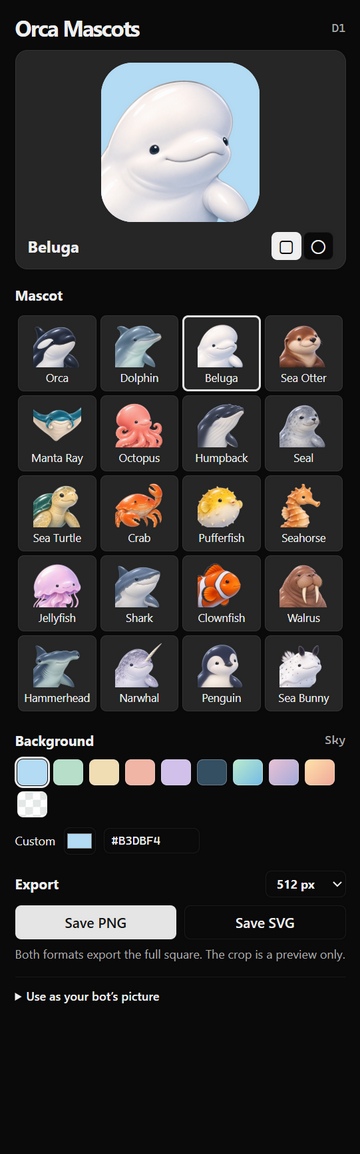
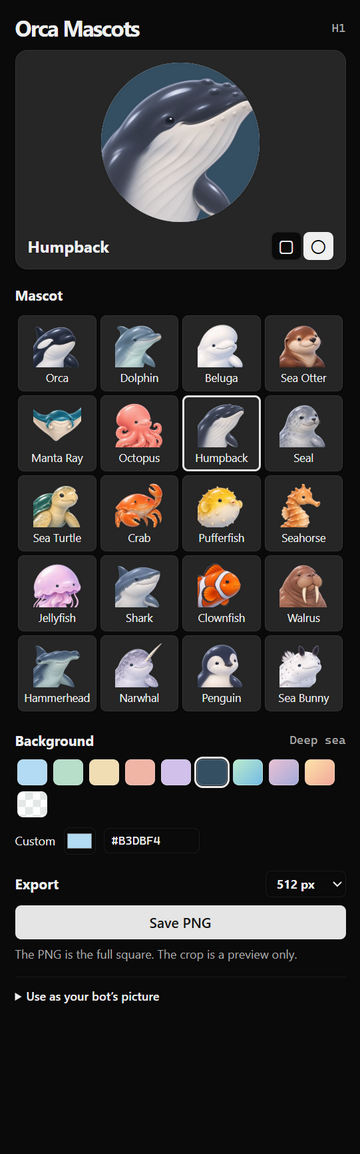
refactor: drop SVG export, keep PNG only

diff --git a/panel/index.html b/panel/index.html
@@ -31,8 +31,8 @@
     </section>
     <section>
       <h2>Export <select id="size" aria-label="Export size"><option value="512">512 px</option><option value="1024">1024 px</option></select></h2>
-      <div class="actions"><button id="png" disabled>Save PNG</button><button id="svg" disabled>Save SVG</button></div>
-      <p class="hint">Both formats export the full square. The crop is a preview only.</p>
+      <div class="actions"><button id="png" disabled>Save PNG</button></div>
+      <p class="hint">The PNG is the full square. The crop is a preview only.</p>
     </section>
     <p id="status" role="status"></p>
     <details><summary>Use as your bot’s picture</summary>

diff --git a/README.md b/README.md
@@ -1,6 +1,6 @@
 # Orca Mascots
 
-Design a marine avatar in the Orca Desktop sidebar. Choose from 20 illustrated animals, customise the background, and save a square PNG or self-contained SVG. Orca Mascots is an unofficial community plugin, unaffiliated with the Orca authors.
+Design a marine avatar in the Orca Desktop sidebar. Choose from 20 illustrated animals, customise the background, and save a square PNG. Orca Mascots is an unofficial community plugin, unaffiliated with the Orca authors.
 
 ![Orca Mascots sidebar in Orca Desktop](docs/gallery.png)
 
@@ -18,14 +18,14 @@ Orca shows the repository, publisher, and requested access before installing. Ex
 
 1. Select an animal in the gallery. Keyboard users can Tab through the buttons and press Enter or Space to select.
 2. Choose a solid, gradient or transparent swatch. For a custom solid, use the colour picker or enter a three- or six-digit hex value. Sky blue (`#B3DBF4`) matches the default background of the built-in mascots.
-3. Switch between rounded and circular previews. The checkerboard shows transparency. Both exports keep the entire square, including the corners.
-4. Choose **512 px** or **1024 px**, then **Save PNG** or **Save SVG**. Choose a destination in Orca’s save dialog. In the SVG the background remains editable, and the raster foreground is embedded so the file travels on its own.
+3. Switch between rounded and circular previews. The checkerboard shows transparency. The export keeps the entire square, including the corners.
+4. Choose **512 px** or **1024 px**, then **Save PNG** and choose a destination in Orca’s save dialog.
 
 The panel remembers your animal, background, last custom colour, preview shape and export size in its local plugin storage. All artwork is bundled and the panel runs offline.
 
 ### Use as your bot’s picture
 
-Save the 512 px PNG, open the bot’s settings and upload it in the picture picker. Orca’s plugin API cannot apply bot avatars or register native mascot IDs. Direct application would require an upstream host method to select a bot and submit an approved picture upload. The SVG is for other uses. Saving and bundled asset loading require Orca Desktop’s isolated frame.
+Save the 512 px PNG, open the bot’s settings and upload it in the picture picker. Orca’s plugin API cannot apply bot avatars or register native mascot IDs. Direct application would require an upstream host method to select a bot and submit an approved picture upload. Saving and bundled asset loading require Orca Desktop’s isolated frame.
 
 ## Development
 
@@ -43,7 +43,7 @@ orca plugin dev watch . --check --shot ./.orca/shots --json
 
 Run release inspection in a clean checkout. Orca includes local files in its size calculation, so ignored image-generation scratch files in a working checkout can exceed the 50 MiB inspection limit. The GitHub release includes the tracked masters and build script alongside the runtime assets.
 
-Review the dev-load access request as for installation. In a desktop workspace, use `orca plugin shot local.mascots --panel gallery --width 340 --out docs/gallery.png` for a fresh screenshot. Inspect the frame logs with `orca plugin logs local.mascots --json`. Stop the watch with Ctrl+C and unload a remaining dev registration with `orca plugin dev unload . --json`. The node tests exercise the shared catalog, preferences and SVG logic. Desktop QA should also exercise both save dialogs and the bot’s PNG upload.
+Review the dev-load access request as for installation. In a desktop workspace, use `orca plugin shot local.mascots --panel gallery --width 340 --out docs/gallery.png` for a fresh screenshot. Inspect the frame logs with `orca plugin logs local.mascots --json`. Stop the watch with Ctrl+C and unload a remaining dev registration with `orca plugin dev unload . --json`. The node tests exercise the shared catalog, preferences and SVG logic. Desktop QA should also exercise the save dialog and the bot’s PNG upload.
 
 ## Licences
 
